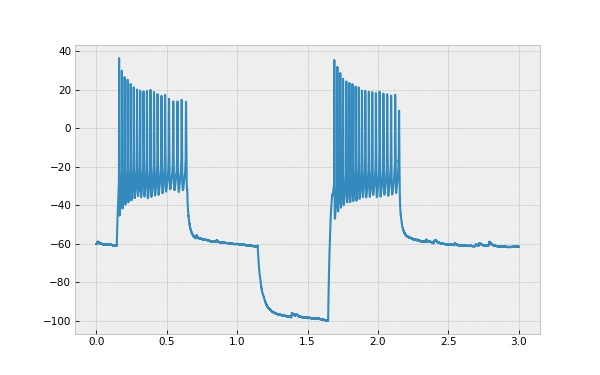
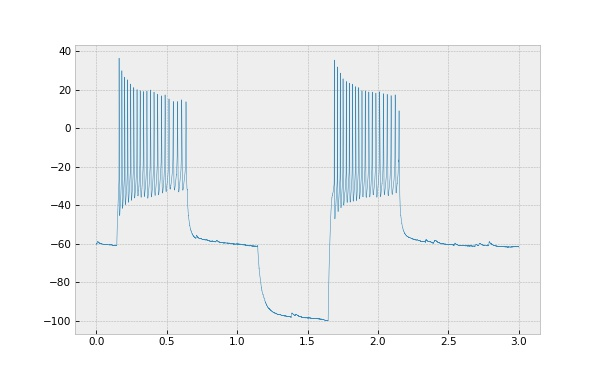
digital output demo

diff --git a/docs/getting-started/generate.py b/docs/getting-started/generate.py
@@ -53,7 +53,7 @@ class Uses:
         abf = pyabf.ABF("data/abfs/17o05028_ic_steps.abf")
         abf.setSweep(14)
         plt.figure(figsize=self.figsize)
-        plt.plot(abf.sweepX, abf.sweepY)
+        plt.plot(abf.sweepX, abf.sweepY, lw=.5)
         self.saveAndClose()
 
     def demo_03a_decorate_matplotlib_plot(self):
@@ -213,8 +213,8 @@ class Uses:
         abf = pyabf.ABF("data/abfs/17o05026_vc_stim.abf")
 
         # only plot data between this time range
-        i1=int(abf.dataRate*3.0)
-        i2=int(abf.dataRate*3.5)
+        i1 = int(abf.dataRate*3.0)
+        i2 = int(abf.dataRate*3.5)
 
         # use a custom colormap
         cm = plt.get_cmap("winter")
@@ -234,6 +234,81 @@ class Uses:
         plt.gca().get_xaxis().set_visible(False)  # hide X axis
         plt.margins(.02, .02)
         plt.tight_layout()
+
+        self.saveAndClose()
+
+    def demo_09a_digital_outputs(self):
+        """
+        ## Accessing Digital Outputs
+
+        Epochs don't just control DAC clamp settings, they also control digital
+        outputs. Digital outputs are stored as an 8-bit byte with 0 representing
+        off and 1 representing on. Calling `abf.sweepD(digOutNum)` will return
+        a waveform (scaled 0 to 1) to show the high/low state of the digital
+        output number given (usually 0-7). Here a digital output controls an 
+        optogenetic stimulator, and a light-evoked EPSC is seen several 
+        milliseconds after the stimulus
+        """
+
+        import pyabf
+        abf = pyabf.ABF("data/abfs/17o05026_vc_stim.abf")
+
+        fig = plt.figure(figsize=self.figsize)
+
+        ax1 = fig.add_subplot(211)
+        ax1.set_title("Digital Output 4")
+        ax1.set_ylabel("State")
+
+        # plot the digital output of the first sweep
+        ax1.plot(abf.sweepX, abf.sweepD(4), color='r')
+
+        ax2 = fig.add_subplot(212, sharex=ax1)
+        ax2.set_title("Recorded Waveform")
+        ax2.set_xlabel(abf.sweepLabelY)
+        ax2.set_ylabel(abf.sweepLabelC)
+
+        # plot the data from every sweep
+        for sweepNumber in abf.sweepList:
+            abf.setSweep(sweepNumber)
+            ax2.plot(abf.sweepX, abf.sweepY, color='C0', alpha=.8, lw=.5)
+
+        fig.subplots_adjust(hspace=.4)
+        ax2.axes.set_xlim(1.10, 1.25)
+        ax2.axes.set_ylim(-150, 50)
+
+        self.saveAndClose()
+
+    def demo_10a_digital_output_shading(self):
+        """
+        ## Shading Digital Outputs
+
+        Drawing digital outputs on the same graph as the data is a bit more
+        subtle because it requires you to know the times digital outputs
+        switch state (rather than the instantaneous state of the output at every
+        point in time).
+
+        Notice how much easier life gets when we don't deal with subplots.
+        """
+
+        import pyabf
+        abf = pyabf.ABF("data/abfs/17o05026_vc_stim.abf")
+
+        plt.figure(figsize=self.figsize)
+        for sweepNumber in abf.sweepList:
+            abf.setSweep(sweepNumber)
+            plt.plot(abf.sweepX, abf.sweepY, color='C0', alpha=.8, lw=.5)
+        plt.ylabel(abf.sweepLabelY)
+        plt.xlabel(abf.sweepLabelX)
+        plt.title("Current to Digital Output")
+        plt.axis([1.10, 1.25, -150, 50])
+
+        outputStateByEpoch = abf.digitalWaveformEpochs[4]  # digital output 4
+        for epochNumber, outputState in enumerate(outputStateByEpoch):
+            if outputState == 1:
+                t1 = abf.epochPoints[epochNumber]*abf.dataSecPerPoint
+                t2 = abf.epochPoints[epochNumber+1]*abf.dataSecPerPoint
+                print(t1,t2)
+                plt.axvspan(t1, t2, color='r', alpha=.5, lw=0)
 
         self.saveAndClose()
 
@@ -281,7 +356,7 @@ They start out simple and increase in complexity.
         if not functionName.startswith("demo_"):
             continue
 
-        #if not "08a" in functionName:
+        #if not "10a" in functionName:
             #continue
 
         # run the function

diff --git a/docs/getting-started/readme.md b/docs/getting-started/readme.md
@@ -41,7 +41,7 @@ import pyabf
 abf = pyabf.ABF("17o05028_ic_steps.abf")
 abf.setSweep(14)
 plt.figure(figsize=(8, 5))
-plt.plot(abf.sweepX, abf.sweepY)
+plt.plot(abf.sweepX, abf.sweepY, lw=.5)
 ```
 
 **Output:**
@@ -221,8 +221,8 @@ import pyabf
 abf = pyabf.ABF("17o05026_vc_stim.abf")
 
 # only plot data between this time range
-i1=int(abf.dataRate*3.0)
-i2=int(abf.dataRate*3.5)
+i1 = int(abf.dataRate*3.0)
+i2 = int(abf.dataRate*3.5)
 
 # use a custom colormap
 cm = plt.get_cmap("winter")
@@ -247,3 +247,84 @@ plt.tight_layout()
 **Output:**
 
 ![source/demo_08a_xy_offset.jpg](source/demo_08a_xy_offset.jpg)
+
+## Accessing Digital Outputs
+
+Epochs don't just control DAC clamp settings, they also control digital
+outputs. Digital outputs are stored as an 8-bit byte with 0 representing
+off and 1 representing on. Calling `abf.sweepD(digOutNum)` will return
+a waveform (scaled 0 to 1) to show the high/low state of the digital
+output number given (usually 0-7). Here a digital output controls an 
+optogenetic stimulator, and a light-evoked EPSC is seen several 
+milliseconds after the stimulus
+
+**Code:**
+
+```python
+import pyabf
+abf = pyabf.ABF("17o05026_vc_stim.abf")
+
+fig = plt.figure(figsize=(8, 5))
+
+ax1 = fig.add_subplot(211)
+ax1.set_title("Digital Output 4")
+ax1.set_ylabel("State")
+
+# plot the digital output of the first sweep
+ax1.plot(abf.sweepX, abf.sweepD(4), color='r')
+
+ax2 = fig.add_subplot(212, sharex=ax1)
+ax2.set_title("Recorded Waveform")
+ax2.set_xlabel(abf.sweepLabelY)
+ax2.set_ylabel(abf.sweepLabelC)
+
+# plot the data from every sweep
+for sweepNumber in abf.sweepList:
+    abf.setSweep(sweepNumber)
+    ax2.plot(abf.sweepX, abf.sweepY, color='C0', alpha=.8, lw=.5)
+
+fig.subplots_adjust(hspace=.4)
+ax2.axes.set_xlim(1.10, 1.25)
+ax2.axes.set_ylim(-150, 50)
+```
+
+**Output:**
+
+![source/demo_09a_digital_outputs.jpg](source/demo_09a_digital_outputs.jpg)
+
+## Shading Digital Outputs
+
+Drawing digital outputs on the same graph as the data is a bit more
+subtle because it requires you to know the times digital outputs
+switch state (rather than the instantaneous state of the output at every
+point in time).
+
+Notice how much easier life gets when we don't deal with subplots.
+
+**Code:**
+
+```python
+import pyabf
+abf = pyabf.ABF("17o05026_vc_stim.abf")
+
+plt.figure(figsize=(8, 5))
+for sweepNumber in abf.sweepList:
+    abf.setSweep(sweepNumber)
+    plt.plot(abf.sweepX, abf.sweepY, color='C0', alpha=.8, lw=.5)
+plt.ylabel(abf.sweepLabelY)
+plt.xlabel(abf.sweepLabelX)
+plt.title("Current to Digital Output")
+plt.axis([1.10, 1.25, -150, 50])
+
+outputStateByEpoch = abf.digitalWaveformEpochs[4]  # digital output 4
+for epochNumber, outputState in enumerate(outputStateByEpoch):
+    if outputState == 1:
+        t1 = abf.epochPoints[epochNumber]*abf.dataSecPerPoint
+        t2 = abf.epochPoints[epochNumber+1]*abf.dataSecPerPoint
+        print(t1,t2)
+        plt.axvspan(t1, t2, color='r', alpha=.5, lw=0)
+```
+
+**Output:**
+
+![source/demo_10a_digital_output_shading.jpg](source/demo_10a_digital_output_shading.jpg)
